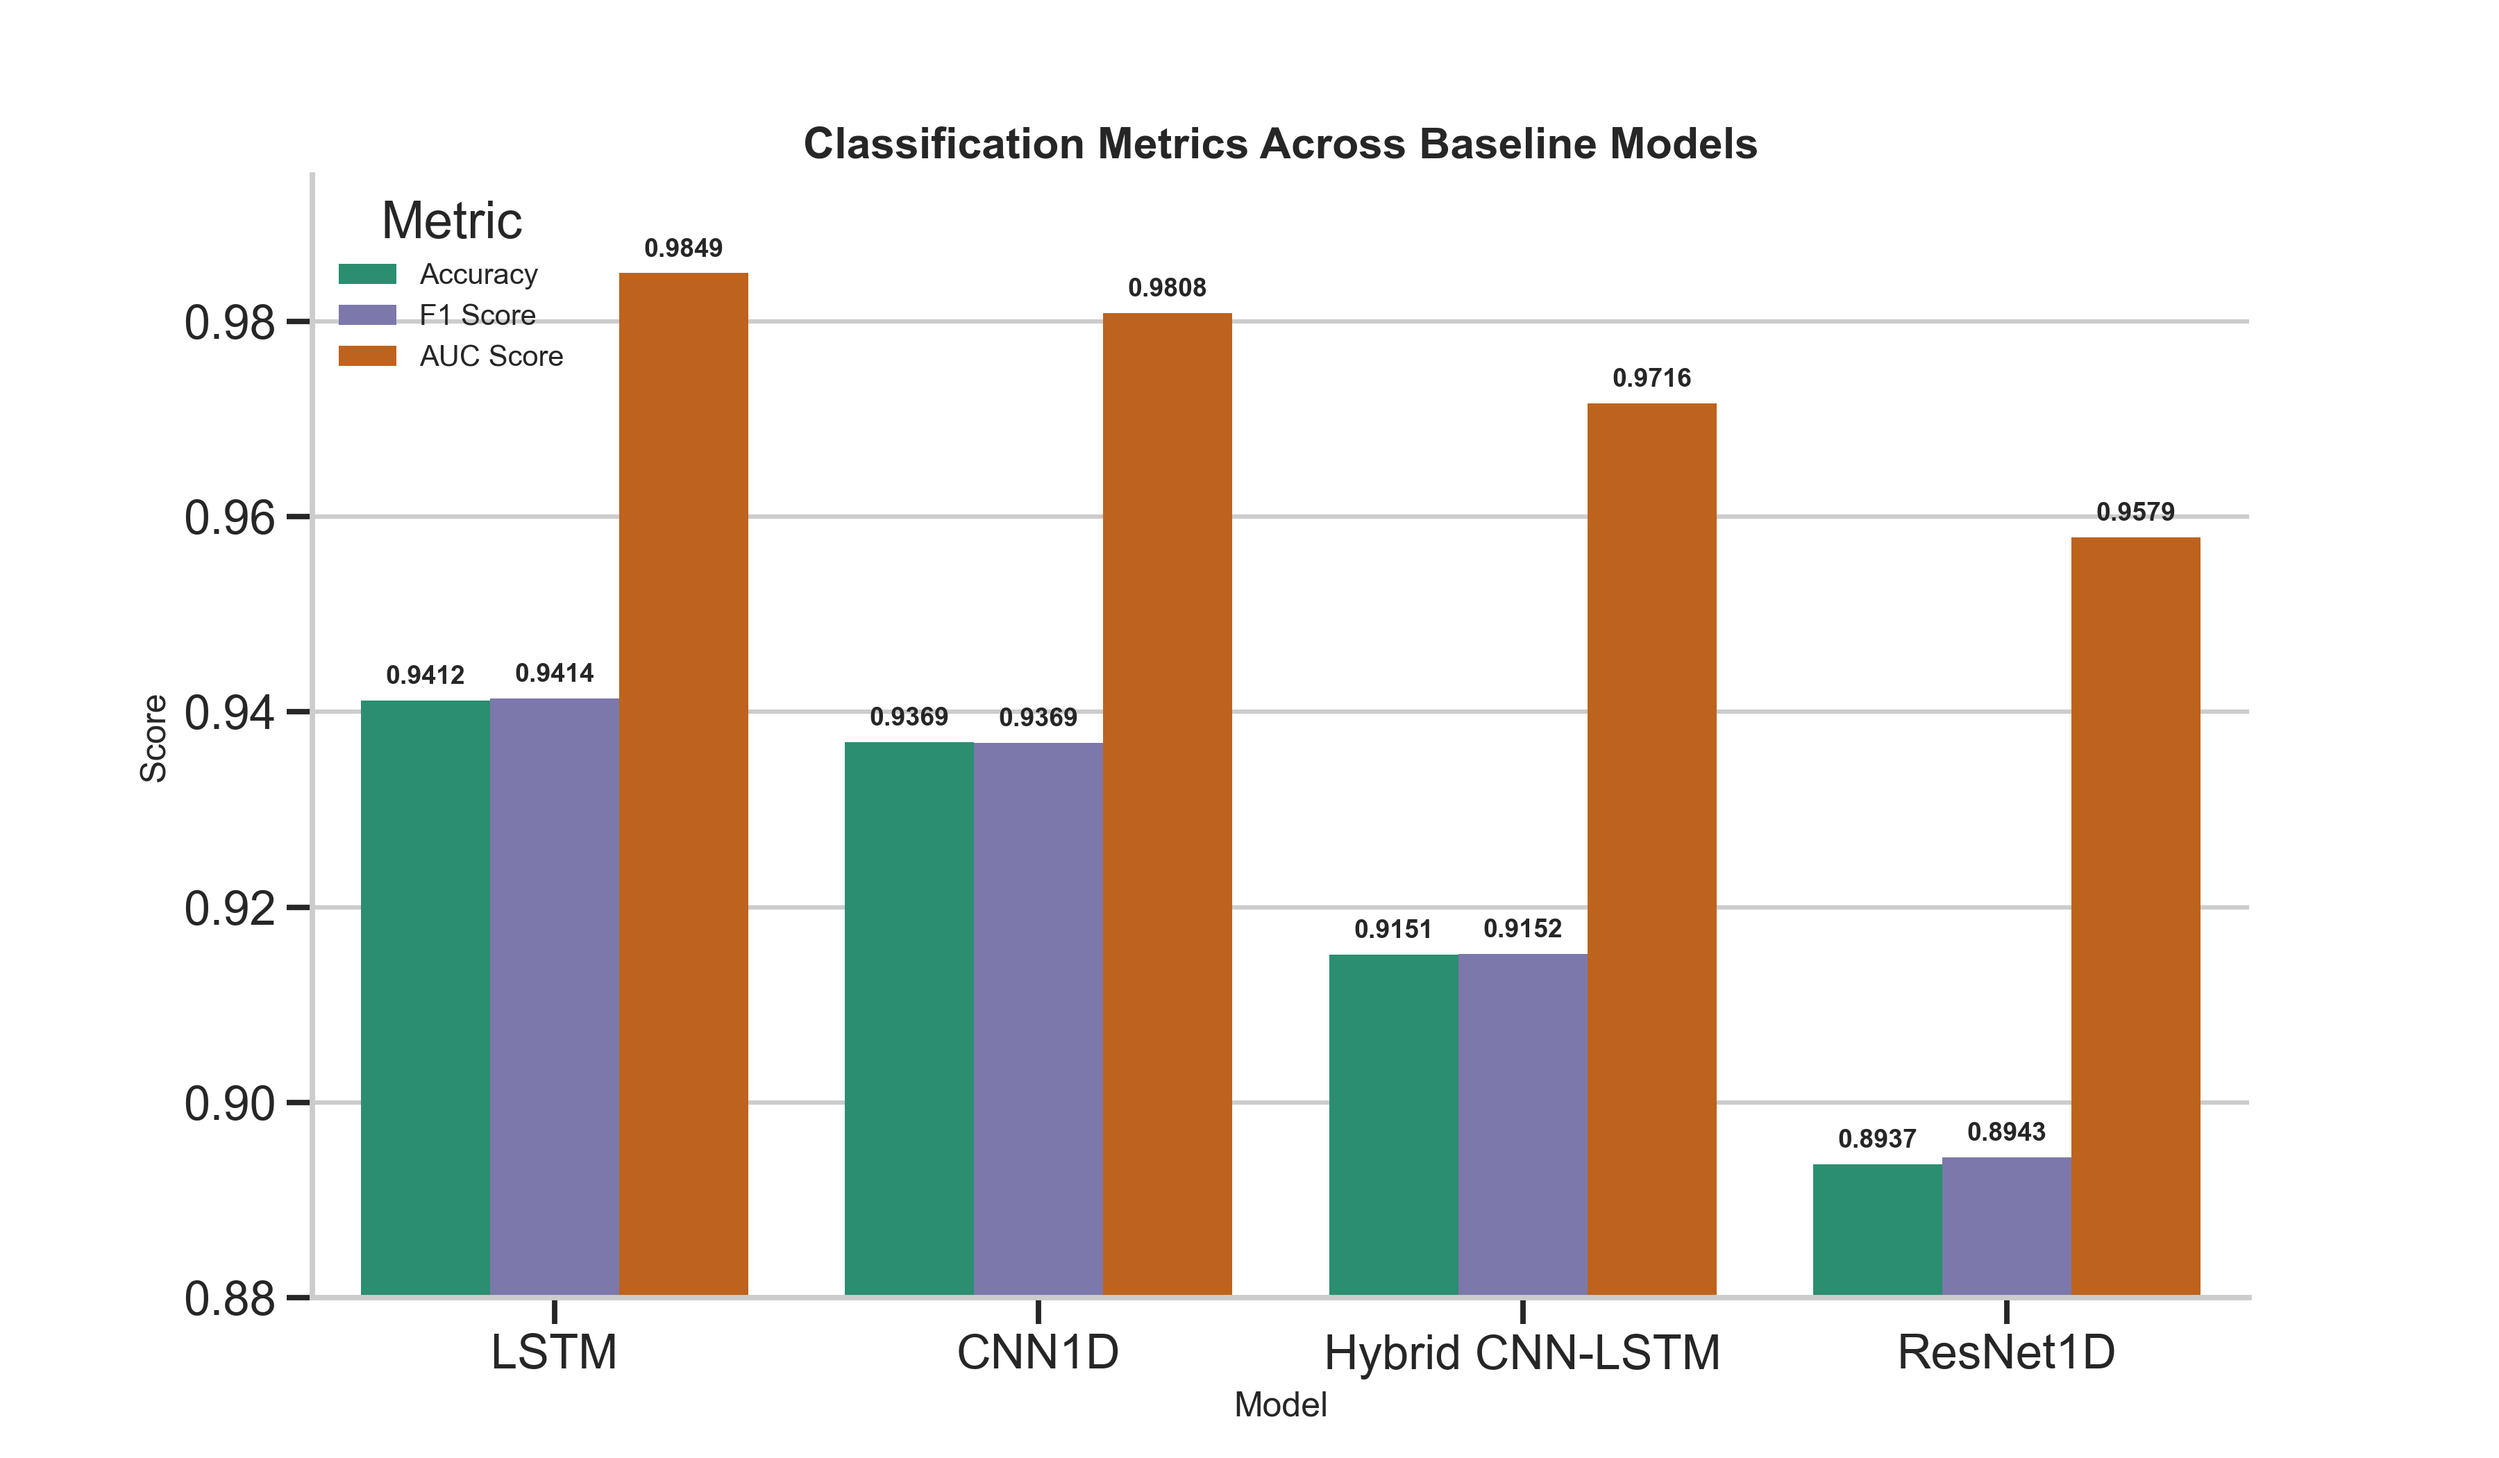
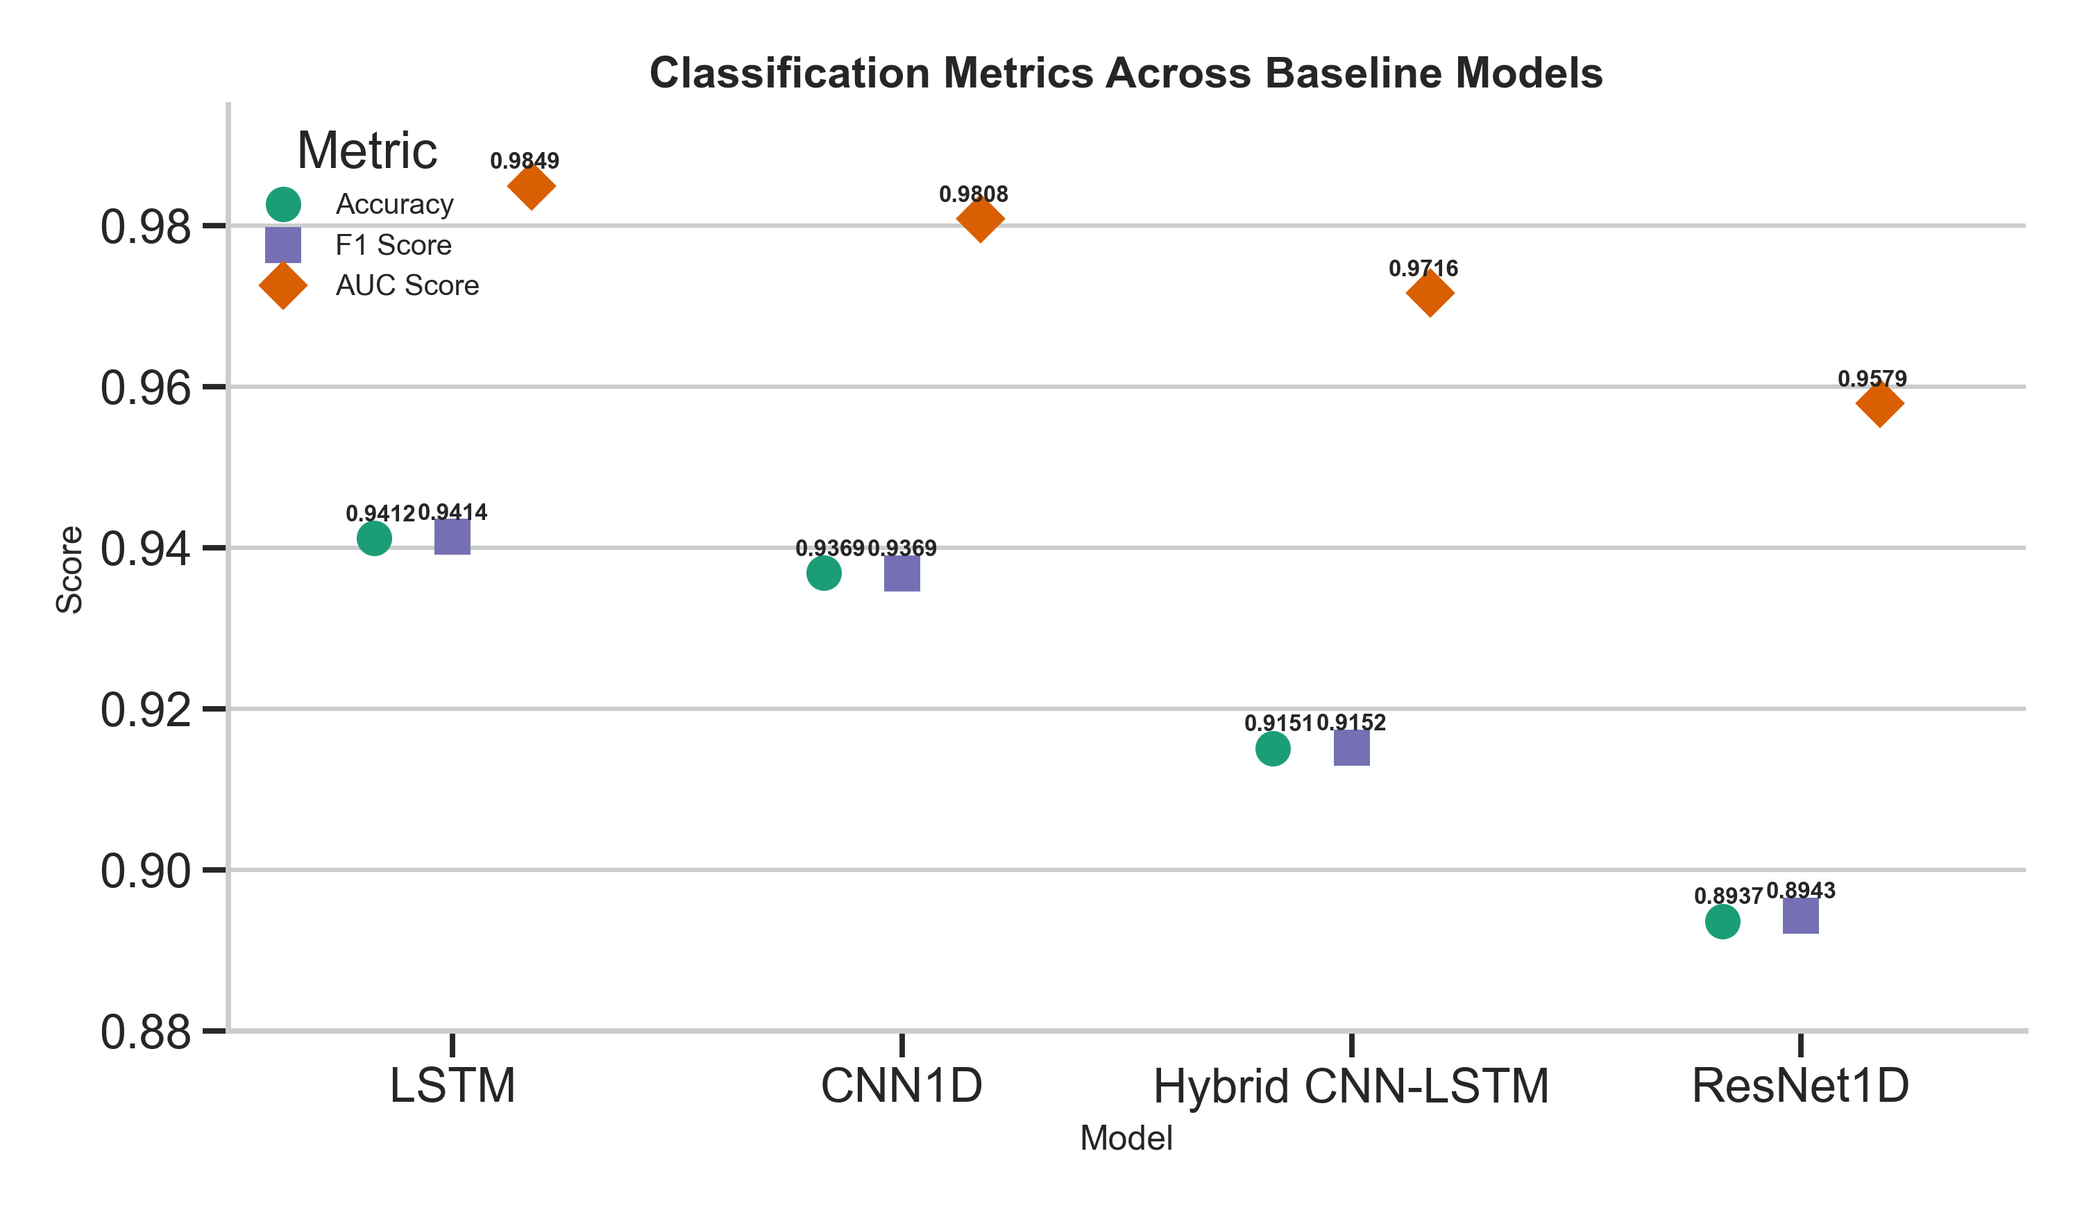
fix: replace metrics bar chart with compact point plot

diff --git a/scripts/visualize_all_models.py b/scripts/visualize_all_models.py
@@ -72,20 +72,26 @@ def load_model_results() -> pd.DataFrame:
     return df
 
 
-def annotate_bars(ax: plt.Axes, offset: float = 0.0012) -> None:
-    for patch in ax.patches:
-        height = patch.get_height()
-        if np.isnan(height):
-            continue
-        ax.text(
-            patch.get_x() + patch.get_width() / 2.0,
-            height + offset,
-            f"{height:.4f}",
-            ha="center",
-            va="bottom",
-            fontsize=9,
-            fontweight="bold",
-        )
+def annotate_metric_points(ax: plt.Axes, plot_df: pd.DataFrame, metric_order: list[str]) -> None:
+    x_positions = {label: idx for idx, label in enumerate(plot_df["Display Model"].drop_duplicates())}
+    metric_offsets = {
+        "Accuracy": -0.16,
+        "F1 Score": 0.0,
+        "AUC Score": 0.16,
+    }
+
+    for metric in metric_order:
+        metric_rows = plot_df[plot_df["Metric"] == metric]
+        for _, row in metric_rows.iterrows():
+            ax.text(
+                x_positions[row["Display Model"]] + metric_offsets[metric],
+                row["Score"] + 0.0015,
+                f"{row['Score']:.4f}",
+                ha="center",
+                va="bottom",
+                fontsize=8,
+                fontweight="bold",
+            )
 
 
 def create_classification_metrics_comparison(df: pd.DataFrame, save_dir: Path) -> None:
@@ -96,17 +102,23 @@ def create_classification_metrics_comparison(df: pd.DataFrame, save_dir: Path) -
         .melt(id_vars="Display Model", value_vars=metric_order, var_name="Metric", value_name="Score")
     )
 
-    fig, ax = plt.subplots(figsize=(12, 7))
-    sns.barplot(
+    fig, ax = plt.subplots(figsize=(10, 5.8))
+    sns.pointplot(
         data=plot_df,
         x="Display Model",
         y="Score",
         hue="Metric",
+        hue_order=metric_order,
         palette=METRIC_COLORS,
+        dodge=0.35,
+        markers=["o", "s", "D"],
+        linestyles="",
+        scale=1.1,
+        errorbar=None,
         ax=ax,
     )
 
-    annotate_bars(ax)
+    annotate_metric_points(ax, plot_df, metric_order)
     ax.set_title("Classification Metrics Across Baseline Models", fontweight="bold")
     ax.set_xlabel("Model")
     ax.set_ylabel("Score")
@@ -117,10 +129,6 @@ def create_classification_metrics_comparison(df: pd.DataFrame, save_dir: Path) -
 
     fig.tight_layout()
     save_path = save_dir / "classification_metrics_comparison.png"
-    # Do not use bbox_inches="tight" here. The y-axis is intentionally zoomed to
-    # highlight small metric differences, but the underlying bars still start at
-    # zero. A tight bbox would include the off-axis portion of the rectangles and
-    # produce a very tall PNG with large blank space.
     fig.savefig(save_path, dpi=300)
     plt.close(fig)
     print(f"Saved {save_path}")
